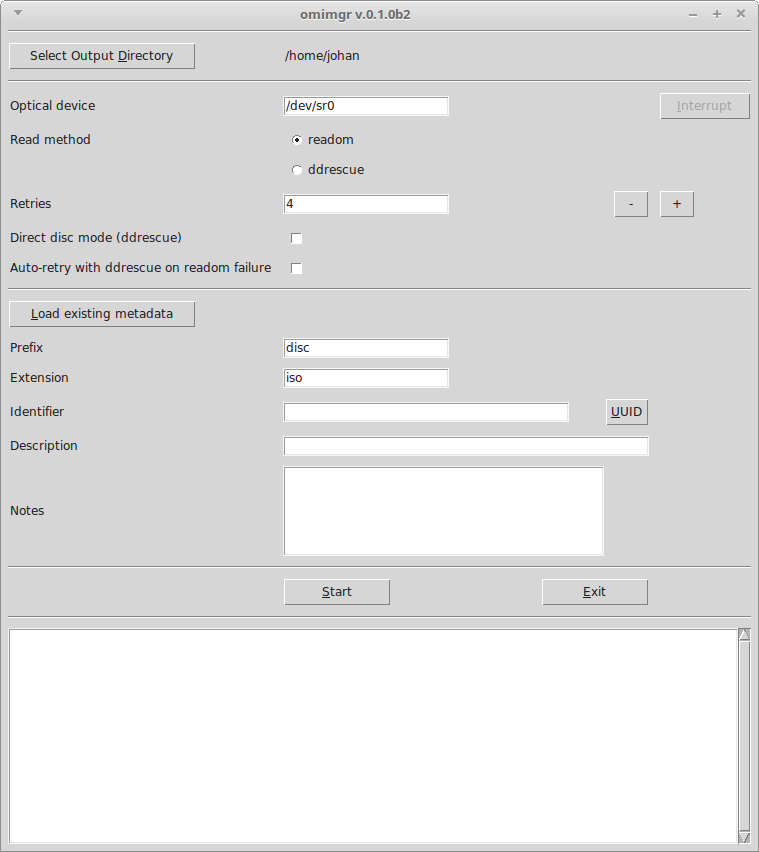
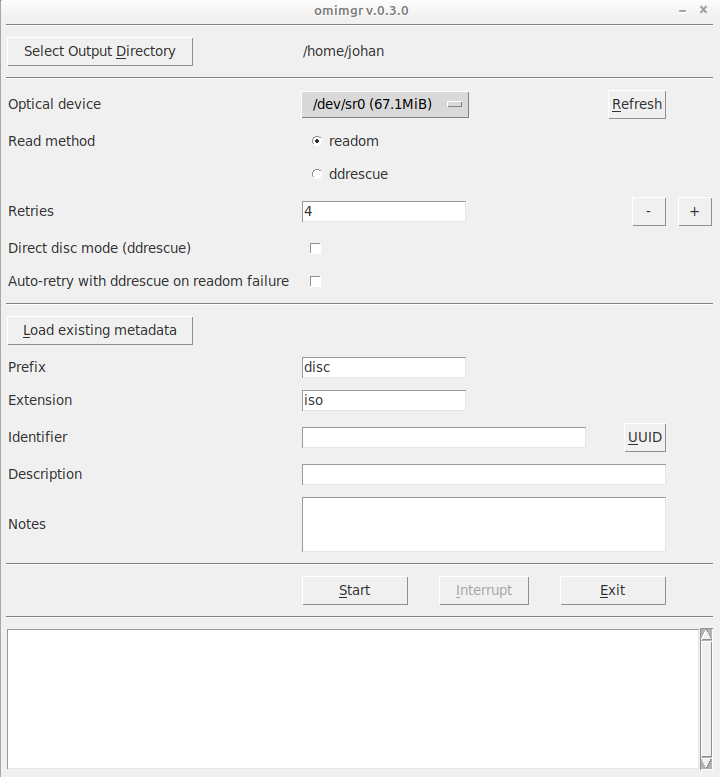
removed obsolete omDevice references, both in code and doc; updated screenshot to current GUI

diff --git a/omimgr/configure.py b/omimgr/configure.py
@@ -53,7 +53,6 @@ def writeConfigFile(configRootDir, removeFlag):
     configSettings['checksumFileName'] = 'checksums.sha512'
     configSettings['logFileName'] = 'omimgr.log'
     configSettings['metadataFileName'] = 'metadata.json'
-    configSettings['omDevice'] = '/dev/sr0'
     configSettings['prefix'] = 'disc'
     configSettings['extension'] = 'iso'
     configSettings['rescueDirectDiscMode'] = 'False'

diff --git a/readme.md b/readme.md
@@ -81,7 +81,7 @@ Use the *Select Output Directory* button to navigate to an (empty) directory whe
 
 |Option|Description|
 |:-|:-|
-|**Optical Device**|The optical devices that is used (default: `/dev/nst0`).|
+|**Optical Device**|The optical device that is used for reading. Press the *Refresh* button to update the dropdown list.|
 |**Read method**|The method (application) that is used to read the disc (default: `readom`).|
 |**Retries**|Maximum number of retries (default: `4`).|
 |**Direct disc mode**|Check this option to read a disc in direct disc mode (setting only has effect with *ddrescue*) (disabled by default).|
@@ -189,7 +189,6 @@ Most of these fields are self-explanatory, but the following need some further e
         "extension": "iso",
         "logFileName": "omimgr.log",
         "metadataFileName": "metadata.json",
-        "omDevice": "/dev/sr0",
         "prefix": "disc",
         "readCommand": "readom",
         "rescueDirectDiscMode": "False",
